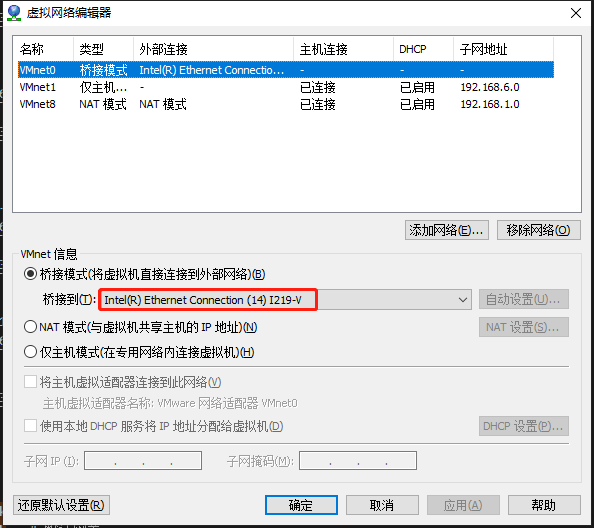
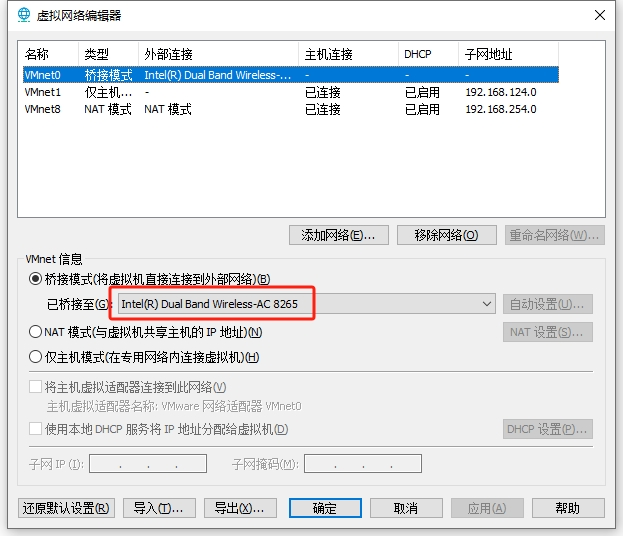
update

Changed region(s): [[0.0, 0.0, 1.0, 1.0]]

diff --git a/docs/deploy/rhel7.md b/docs/deploy/rhel7.md
@@ -12,18 +12,16 @@
 ![](../../assets/_images/deploy/rhel7/Vm6.png)
 ![](../../assets/_images/deploy/rhel7/Vm7.png)
 
-1. 配置首选项
+1. 编辑-首选项
 
 ![](../../assets/_images/deploy/rhel7/Vm8.png)
 
 
-2. 桥接模式
-
-必须手动选择宿主机对应的网卡
+2. 虚拟网络编辑器-桥接模式
 
 ![](../../assets/_images/deploy/rhel7/Vm9.png)
 
-Windows10 连接虚拟机修改网络设置，确认宿主机VMware Bridge Protocol被勾选，DNE LightWeight Filter未被勾选，防火墙关闭。宿主机与虚拟机相同级别，都可连接外网
+> 虚拟机和Windows10宿主机互相无法ping的时候，确认宿主机VMware Bridge Protocol被勾选，DNE LightWeight Filter未被勾选，防火墙关闭。
 
 ![](../../assets/_images/deploy/rhel7/Vm10.png)
 
